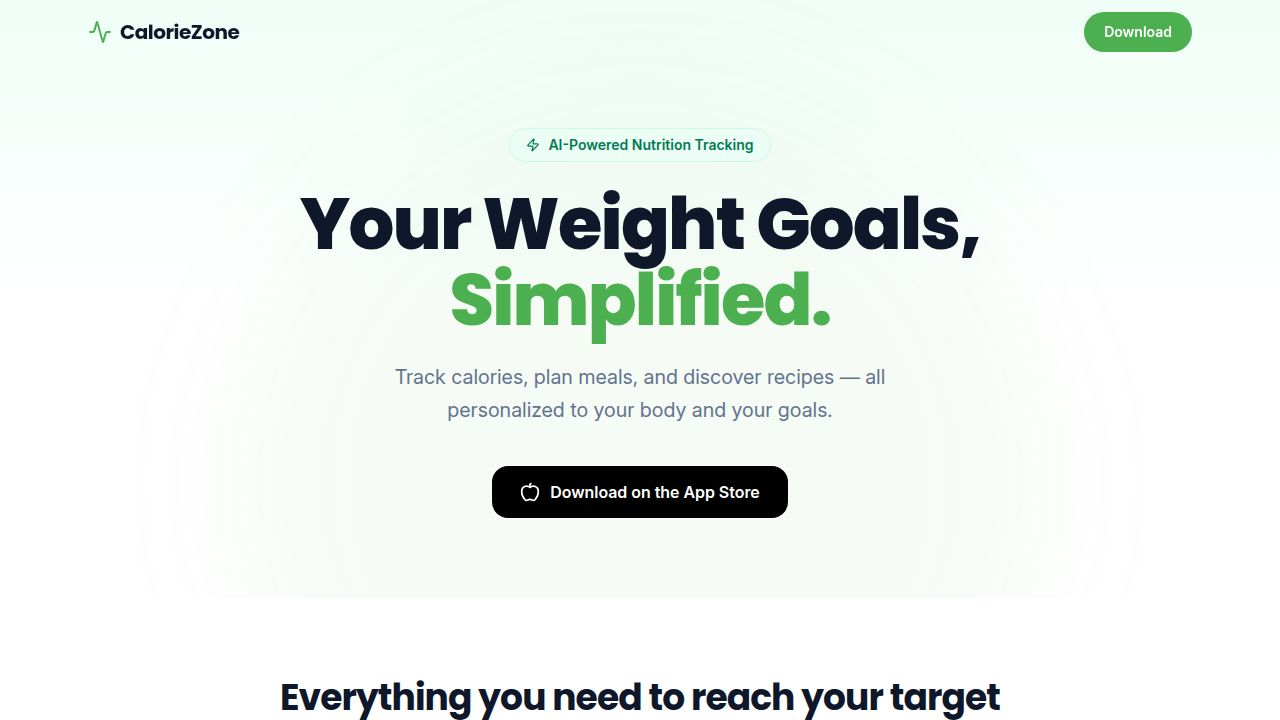
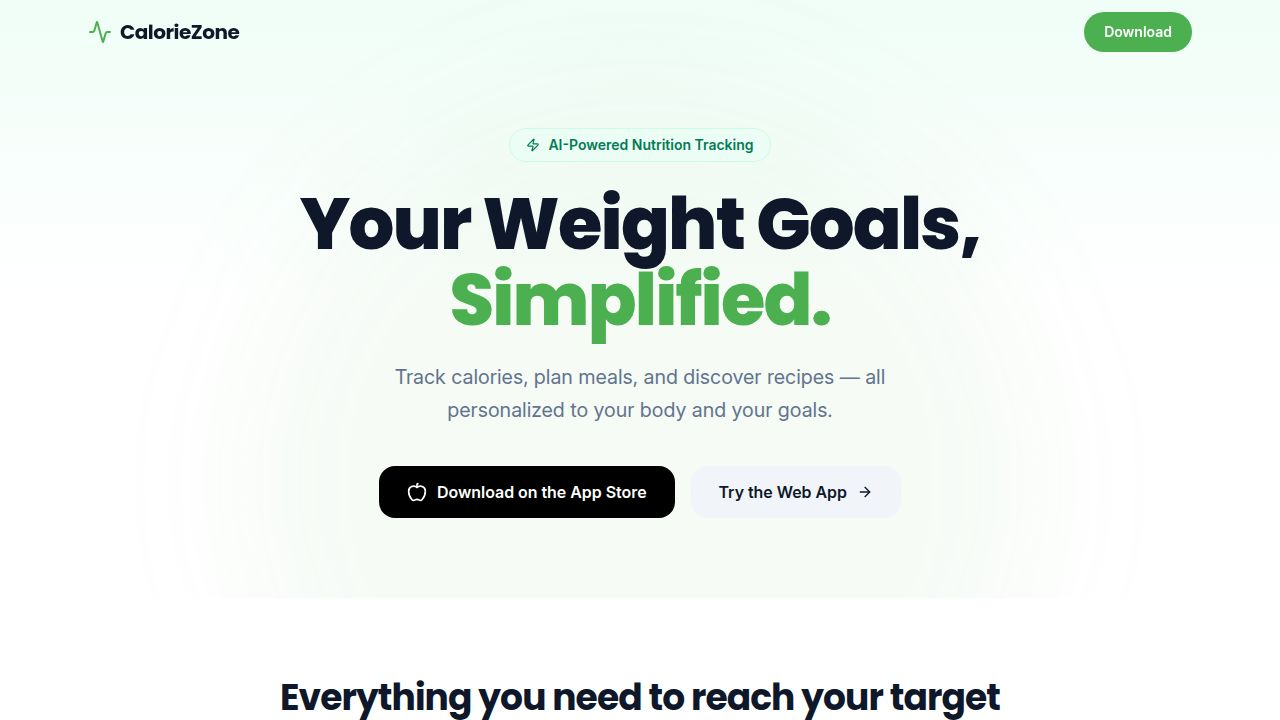
Add a button to the landing page to try the web application
Update the landing page component to include a new button that links to the '/app' route, allowing users to easily access the web application.

Replit-Commit-Author: Agent
Replit-Commit-Session-Id: d0c98cd4-3401-4b9a-9fcc-3167ef5b7d4c
Replit-Commit-Checkpoint-Type: full_checkpoint
Replit-Commit-Event-Id: 28908f5a-dfad-48ad-bf29-1d47eb6f0b5e
Replit-Commit-Screenshot-Url: https://storage.googleapis.com/screenshot-production-us-central1/b5252e75-7d72-4a27-a063-837869a7ea78/d0c98cd4-3401-4b9a-9fcc-3167ef5b7d4c/Q1GRrAz
Replit-Helium-Checkpoint-Created: true

Changed region(s): [[0.2812, 0.6417, 0.6875, 0.7333]]

diff --git a/client/src/pages/landing.tsx b/client/src/pages/landing.tsx
@@ -46,12 +46,20 @@ export default function Landing() {
           </p>
           <div className="flex flex-col sm:flex-row items-center justify-center gap-4">
             <a
-              href="#download"
+              href="https://apps.apple.com"
               className="inline-flex items-center gap-2.5 bg-black hover:bg-slate-800 text-white font-semibold px-7 py-3.5 rounded-xl transition-colors text-base"
               data-testid="link-download-hero"
             >
               <Apple className="h-5 w-5" />
               Download on the App Store
+            </a>
+            <a
+              href="/app"
+              className="inline-flex items-center gap-2.5 bg-slate-100 hover:bg-slate-200 text-slate-900 font-semibold px-7 py-3.5 rounded-xl transition-colors text-base"
+              data-testid="link-try-app"
+            >
+              Try the Web App
+              <ArrowRight className="h-4 w-4" />
             </a>
           </div>
         </div>
